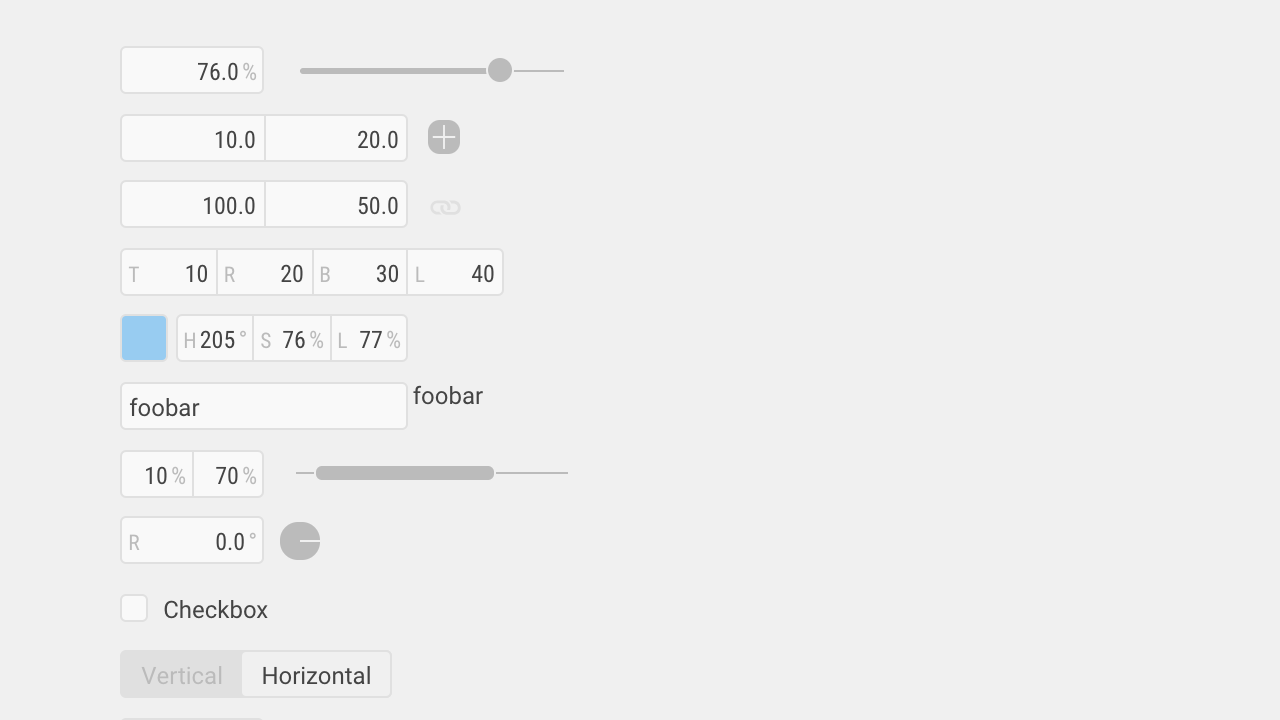
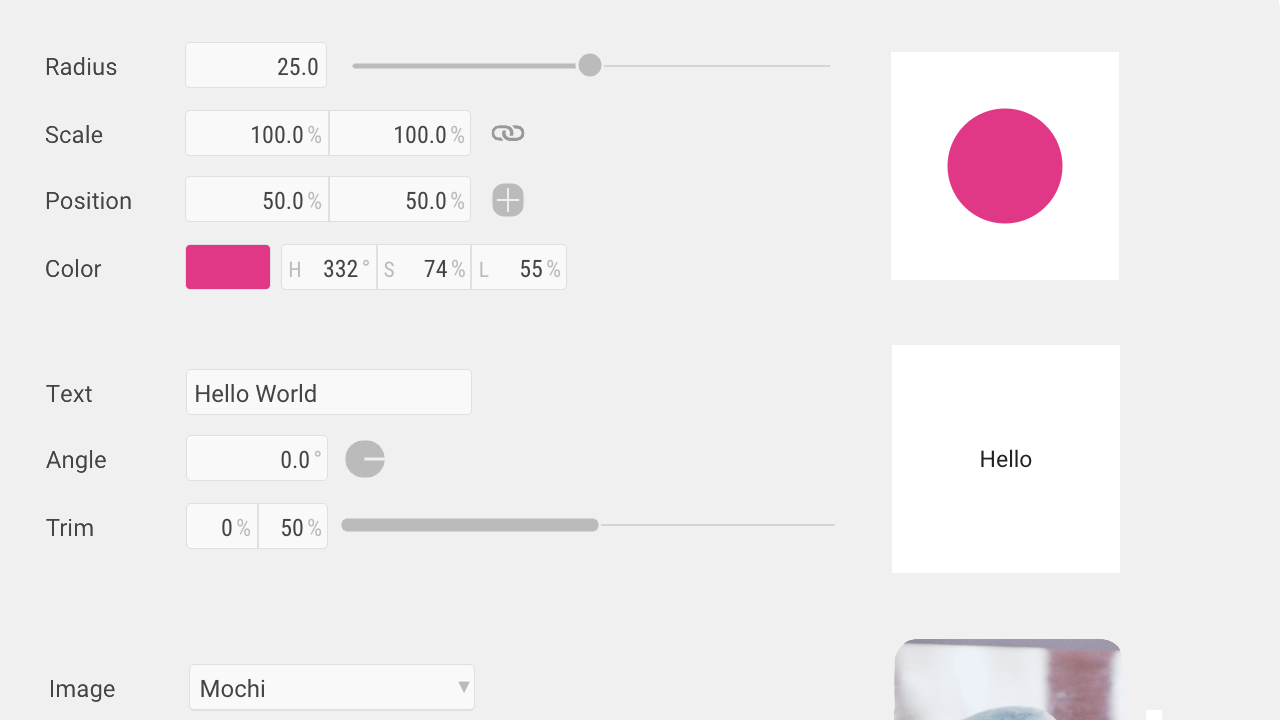
Update page ComponentList

diff --git a/src/pages/ComponentsList.vue b/src/pages/ComponentsList.vue
@@ -1,79 +1,117 @@
 <template>
-	<div class="page-content">
-		<div class="column">
-			<InputNumber v-model="scalar" unit="%" style="width: 6em; margin-right: 1em;"/>
-			<InputSlider v-model="scalar" :min="0" :max="100" style="width: 12em"/>
+	<div class="page-content article">
+		<h2>Example 1</h2>
+		<p>Slider, Scale, Position, and Color.</p>
+		<div class="example">
+			<div class="param">
+				<div class="column">
+					<label>Radius</label>
+					<ParameterSlider class="input" v-model="ex1.radius" :min="0" :max="50"/>
+				</div>
+				<div class="column">
+					<label>Scale</label>
+					<ParameterScale class="input" v-model="ex1.scale" unit="%"/>
+				</div>
+				<div class="column">
+					<label>Position</label>
+					<ParameterPoint class="input" v-model="ex1.position" :min="0" :max="100" unit="%"/>
+				</div>
+				<div class="column">
+					<label>Color</label>
+					<ParameterColor class="input" v-model="ex1.color"/>
+				</div>
+			</div>
+			<div class="preview">
+				<div class="aspect">
+					<svg class="canvas" viewBox="0 0 100 100">
+						<circle
+							:fill="toCSSColor(ex1.color)"
+							cx="0"
+							cy="0"
+							:r="ex1.radius"
+							:transform="`translate(${ex1.position[0]}, ${ex1.position[1]}) scale(${ex1.scale[0] / 100}, ${ex1.scale[1] / 100})`"
+						></circle>
+					</svg>
+				</div>
+			</div>
 		</div>
 
-		<div class="column">
-			<InputVector v-model="point" :precision="1" style="width: 12em; margin-right: .5em;"/>
-			<InputPoint v-model="point"/>
+		<h2>Example 2</h2>
+		<p>String, Angle, and Range (min/max).</p>
+		<div class="example">
+			<div class="param">
+				<div class="column">
+					<label>Text</label>
+					<InputString class="input long" v-model="ex2.text"/>
+				</div>
+				<div class="column">
+					<label>Angle</label>
+					<ParameterAngle class="input" v-model="ex2.rotation"/>
+				</div>
+				<div class="column">
+					<label>Trim</label>
+					<ParameterRange class="input" v-model="ex2.trim" :min="0" :max="100" unit="%"/>
+				</div>
+			</div>
+			<div class="preview">
+				<div class="aspect">
+					<svg class="canvas" viewBox="0 0 100 100">
+						<text
+							fill="#222"
+							font-size="10"
+							text-anchor="middle"
+							dominant-baseline="central"
+							:transform="`translate(50, 50) rotate(${ex2.rotation})`"
+						>{{trimText(ex2.text, ...ex2.trim)}}</text>
+					</svg>
+				</div>
+			</div>
 		</div>
 
-		<div class="column">
-			<InputVector
-				:value="scale"
-				@input="onScaleChanged"
-				:precision="1"
-				style="width: 12em; margin-right: .5em;"
-			/>
-			<InputIconToggle v-model="keepPropotion">
-				<img svg-inline src="../assets/icon_chain.svg">
-			</InputIconToggle>
+		<h2>Example 3</h2>
+		<p>Dropdown, Checkbox, and Select.</p>
+		<div class="example">
+			<div class="param">
+				<div class="column">
+					<label>Image</label>
+					<InputDropdown
+						class="input long"
+						v-model="ex3.image"
+						:values="['Mochi', 'Dango', 'Beko-mochi']"
+					/>
+				</div>
+				<div class="column">
+					<label>Inverted</label>
+					<InputCheckbox class="input" v-model="ex3.inverted"/>
+				</div>
+				<div class="column">
+					<label>Edge</label>
+					<InputMode class="input no-grow" v-model="ex3.edge" :values="['Rounded', 'Circle', 'Grow']"/>
+				</div>
+			</div>
+			<div class="preview">
+				<div class="aspect" :style="{filter: ex3.inverted ? 'invert(1)' : ''}">
+					<img :class="['canvas', ex3.edge]" :src="`./assets/${ex3.image}.jpg`">
+				</div>
+			</div>
 		</div>
 
-		<div class="column">
-			<InputVector v-model="rect" :precision="0" :labels="['T', 'R', 'B', 'L']" style="width: 16em;"/>
-		</div>
-
-		<div class="column">
-			<InputColorButton v-model="color" style="margin-right: .3em;"/>
-			<InputColor v-model="color" style="width: 9.7em;"/>
-		</div>
-
-		<div class="column">
-			<InputString v-model="text" style="width: 12em;"/>
-			<label>{{text}}</label>
-		</div>
-
-		<div class="column">
-			<InputVector
-				v-model="range"
-				:precision="0"
-				:units="['%', '%']"
-				style="width: 6em; margin-right: 1em;"
-			/>
-			<InputRange v-model="range" :min="0" :max="100" style="width: 12em"/>
-		</div>
-
-		<div class="column">
-			<InputNumber v-model="angle" label="R" unit="°" style="width: 6em; margin-right: .5em;"/>
-			<InputAngle v-model="angle"/>
-		</div>
-
-		<div class="column">
-			<InputCheckbox v-model="checkbox" label="Checkbox"/>
-		</div>
-
-		<div class="column">
-			<InputMode
-				v-model="direction"
-				:labels="['Vertical', 'Horizontal']"
-				:values="['vertical', 'horizontal']"
-			/>
-		</div>
-
-		<div class="column">
-			<InputDropdown
-				v-model="dropdown"
-				:labels="['Top', 'Right', 'Bottom', 'Left']"
-				:values="['top', 'right', 'bottom', 'left']"
-				style="width:6em"
-			/>
-		</div>
-
-		<div class="column">
-			<InputButton @click="angle += 10" :label="'Button'"/>
+		<h2>Example 4</h2>
+		<p>Random seed.</p>
+		<div class="example">
+			<div class="param">
+				<div class="column">
+					<label>Roll</label>
+					<InputRandomSeed v-model="ex4.seed" :min="1" :max="6" :step="1"/>
+				</div>
+			</div>
+			<div class="preview">
+				<div class="aspect">
+					<div class="canvas">
+						<img class="dice" src="../assets/dice.svg" :style="{left: `${(ex4.seed-1) * -100}%`}">
+					</div>
+				</div>
+			</div>
 		</div>
 	</div>
 </template>
@@ -81,6 +119,7 @@
 <script lang="ts">
 import {Component, Vue} from 'vue-property-decorator'
 
+import {toCSSColor} from '@/util'
 import {DataColor} from '@/data'
 
 import Components from '@/components'
@@ -89,63 +128,119 @@ import Components from '@/components'
 	components: Components,
 	data() {
 		return {
-			scalar: 76,
-			point: [10, 20],
-			scale: [100, 50],
-			keepPropotion: false,
-			rect: [10, 20, 30, 40],
-			range: [10, 70],
-			text: 'foobar',
-			dropdown: 'bottom',
-			color: ['hsl', [20, 30, 20]],
-			angle: 0,
-			checkbox: true,
-			direction: 'horizontal'
+			ex1: {
+				radius: 25,
+				scale: [100, 100],
+				position: [50, 50],
+				color: ['hsl', [332, 74, 55]]
+			},
+			ex2: {
+				text: 'Hello World',
+				rotation: 0,
+				trim: [0, 50]
+			},
+			ex3: {
+				image: 'Mochi',
+				inverted: false,
+				edge: 'Rounded'
+			},
+			ex4: {
+				seed: 1
+			}
 		}
-	}
+	},
+	methods: {toCSSColor}
 })
 export default class ComponentsList extends Vue {
-	private onScaleChanged(value: number[], index: number) {
-		const scale = this.$data.scale
+	private trimText(text: string, min: number, max: number) {
+		const len = text.length
 
-		if (this.$data.keepPropotion) {
-			const proportion = value[index] / scale[index]
+		const start = Math.floor((min / 100) * len)
+		const end = Math.floor((max / 100) * len)
 
-			console.log(value, index, proportion)
-
-			if (isFinite(proportion)) {
-				for (let i = 0; i < scale.length; i++) {
-					this.$set(
-						scale,
-						i,
-						i === index ? value[index] : scale[i] * proportion
-					)
-				}
-			} else {
-				for (let i = 0; i < scale.length; i++) {
-					this.$set(scale, i, value[index])
-				}
-			}
-		} else {
-			this.$data.scale = value
-		}
+		return text.slice(start, end)
 	}
 }
 </script>
 
-<style lang="stylus">
+<style lang="stylus" scoped>
+@import '../style/config.styl'
+
 .page-content
 	padding 2rem
 	width 100%
 	height 100%
-	background var(--color-bg)
 	user-select none
 
-.column
+.example
 	display flex
-	margin-bottom 0.8em
+	align-items center
+	margin-bottom 4em
+	background var(--color-bg)
+	font-size 1rem
 
-label
-	padding 0 0.2em
-	line-height $input-height
+	.param
+		flex-grow 1
+		margin 2em
+		margin-right 1em
+
+	.column
+		display flex
+		margin-bottom 0.8em
+
+		&:last-child
+			margin-bottom 0
+
+		label
+			padding 0 1em 0 0.2em
+			width 6em
+			line-height $input-height
+
+		.input
+			flex-grow 1
+
+			&.narrow
+				flex-grow 0
+				width 6em
+
+			&.long
+				flex-grow 0
+				width 12em
+
+			&.no-grow
+				flex-grow 0
+
+	.preview
+		position relative
+		margin 1em
+		width 20%
+
+		.aspect
+			position relativ
+			padding-top 100%
+			width 100%
+
+		.canvas
+			position absolute
+			top 0
+			left 0
+			overflow hidden
+			width 100%
+			height 100%
+			background white
+
+			&.Rounded
+				border-radius 10%
+
+			&.Circle
+				border-radius 50%
+
+			&.Grow
+				box-shadow 0 0 10px 3px orange
+
+			.dice
+				position absolute
+				top 0
+				width 600%
+				height 100%
 </style>
